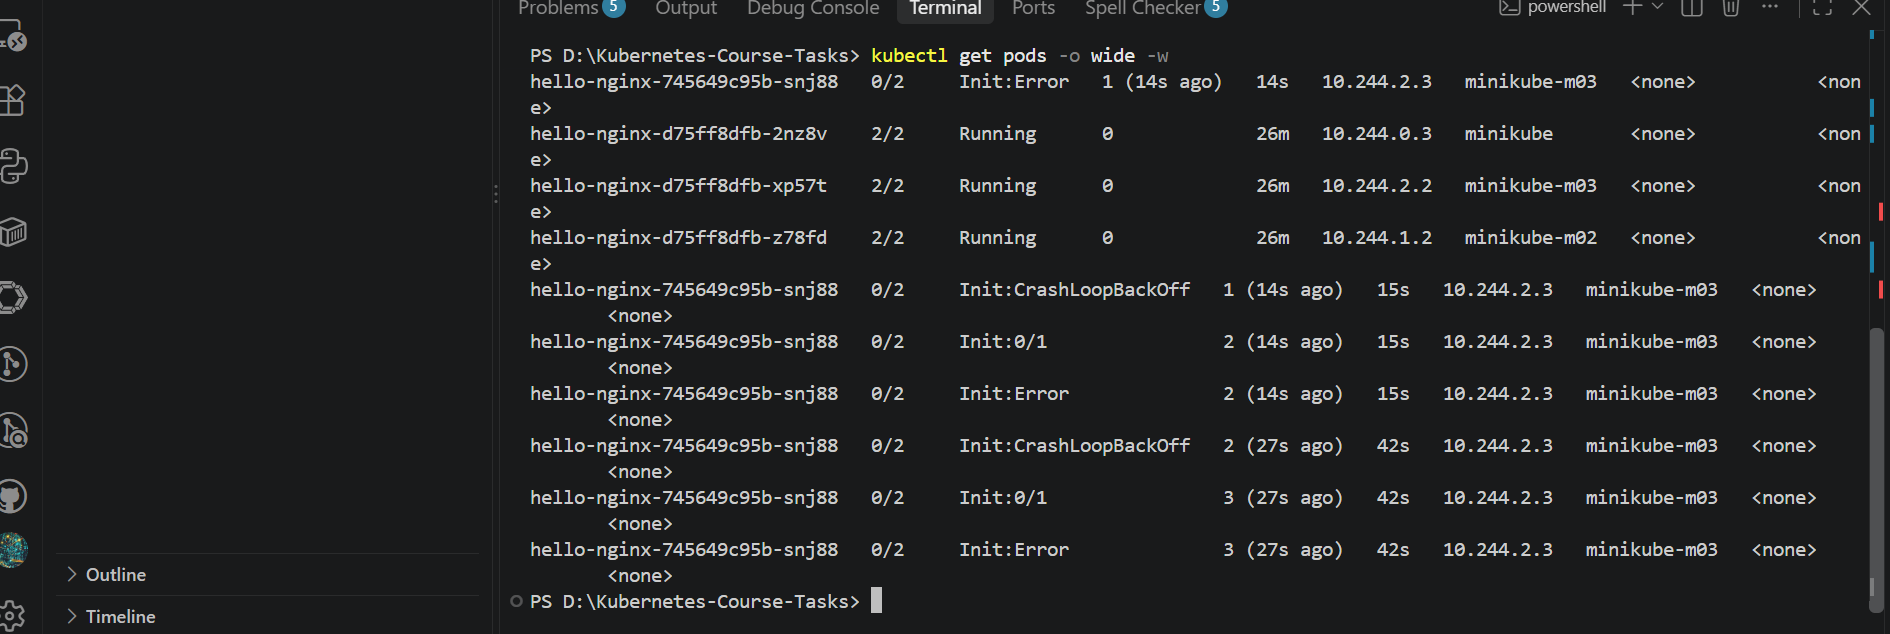
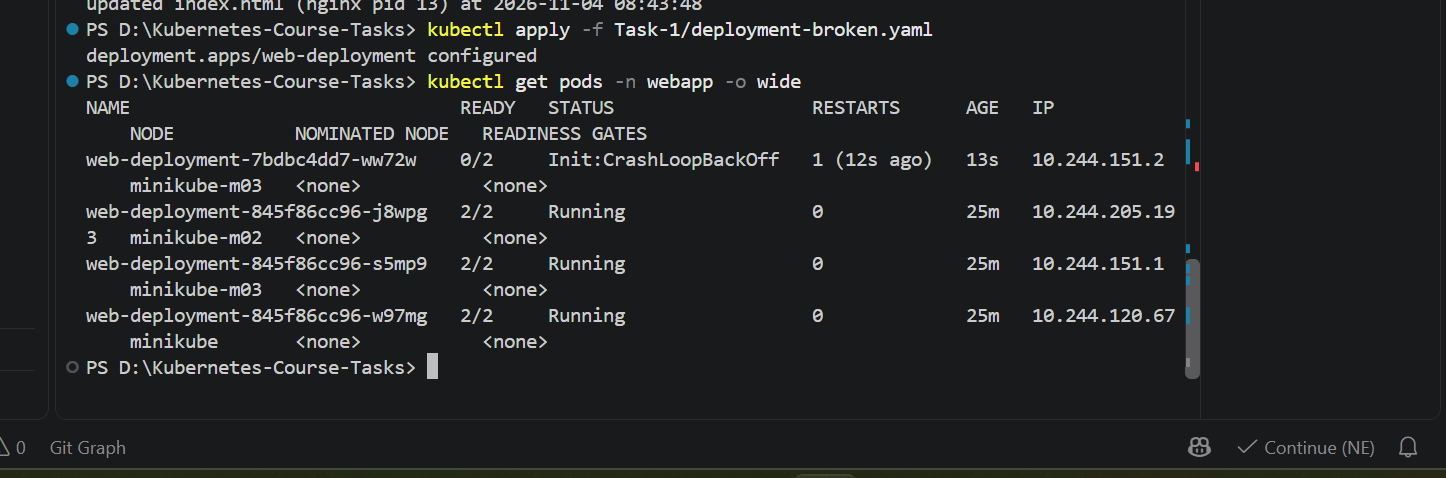
Task 1: align with task spec
- Use required names: namespace webapp, Deployment web-deployment, label app: web
- Use nginx:1.27 and <h1> page content
- Init failure command: echo 'init failed'; exit 1
- Recreate cluster with Calico (3 nodes, 2200MB each)
- Add namespace.yaml, update service.yaml selector/namespace
- Retake all screenshots and add verification checks (11-verify1/2)
- README: add Step 5 answers and task verification table

diff --git a/Task-1/README.md b/Task-1/README.md
@@ -1,9 +1,9 @@
 # Task 1: Multi-Container Pods (Init Container & Sidecar)
 
-An Nginx "Hello" page running on a **3-node Minikube cluster**. The page shows the current timestamp and refreshes it every 5 seconds:
+An Nginx "Hello" page running on a **3-node Minikube cluster** (1 control-plane + 2 workers, **Calico** CNI). The page shows the current timestamp, and a sidecar refreshes it every 5 seconds:
 
 ```text
-hello in MLOPS MENA COMMUNITY : 2026-11-03 11:49:18
+hello in MLOPS MENA COMMUNITY : 2026-11-04 11:15:05
 ```
 
 Each Pod has three containers, uses **no volumes**, and relies on `shareProcessNamespace: true` so the containers can see each other.
@@ -14,10 +14,18 @@ Each Pod has three containers, uses **no volumes**, and relies on `shareProcessN
 
 | File | Purpose |
 |---|---|
-| `deployment.yaml` | The working Deployment (3 replicas, init container + nginx + sidecar) |
-| `deployment-broken.yaml` | Same Deployment, but `init-done` runs `exit 1` on purpose |
-| `service.yaml` | NodePort Service that exposes the Pods on port 80 |
+| `namespace.yaml` | The `webapp` namespace |
+| `deployment.yaml` | The working Deployment `web-deployment` (3 replicas, init container + nginx + sidecar) |
+| `deployment-broken.yaml` | Same Deployment, but `init-done` exits with code `1` on purpose |
+| `service.yaml` | Optional NodePort Service `web-service` that exposes the Pods on port 80 |
 | `screenshots/` | Evidence for every step below |
+
+| Resource | Name |
+|---|---|
+| Namespace | `webapp` |
+| Deployment / Pod label | `web-deployment` / `app: web` |
+| Containers | `init-done`, `nginx`, `time-updater` |
+| Images | `busybox:1.36` (init + sidecar), `nginx:1.27` |
 
 ---
 
@@ -26,17 +34,17 @@ Each Pod has three containers, uses **no volumes**, and relies on `shareProcessN
 | Container | Type | What it does |
 |---|---|---|
 | `init-done` | Init container (`busybox:1.36`) | Prints `done` and exits `0`. The other containers start only after it succeeds. |
-| `nginx` | Main container (`nginx:1.27-alpine`) | Writes the first `index.html` with the current time, then serves it on port `80` |
+| `nginx` | Main container (`nginx:1.27`) | Writes the first `index.html` with the current time, then serves it on port `80` |
 | `time-updater` | Sidecar (`busybox:1.36`) | Every 5 seconds, finds the nginx master PID and rewrites the page through `/proc/<pid>/root/usr/share/nginx/html/index.html` |
 
 ### How the sidecar edits nginx's file without a volume
 
 1. `shareProcessNamespace: true` puts all containers in the Pod in **one process namespace**, so `time-updater` can see the nginx process.
-2. `pgrep -f "nginx: master"` gets the nginx PID.
+2. `pgrep -o nginx` gets the PID of the oldest nginx process (the master).
 3. `/proc/<pid>/root` points to **that process's root filesystem**. Writing to `/proc/<pid>/root/usr/share/nginx/html/index.html` changes the file nginx is serving.
 4. The `SYS_PTRACE` capability lets the sidecar access another container's `/proc/<pid>/root`.
 
-### Zero-downtime settings
+### Zero-downtime settings (extra)
 
 ```yaml
 strategy:
@@ -53,16 +61,18 @@ A `readinessProbe` on nginx means a Pod receives traffic only once it actually a
 ## 🚀 How to Run
 
 ```bash
-# 1. Start a 3-node cluster
-minikube start --nodes 3 --driver=docker
+# 1. Start a 3-node cluster with Calico (--memory is per node)
+minikube start --nodes 3 --cni=calico --cpus 2 --memory 2200
 kubectl get nodes
 
-# 2. Deploy
-kubectl apply -f Task-1/
-kubectl get pods -o wide -w
+# 2. Namespace + Deployment (+ optional Service)
+kubectl apply -f Task-1/namespace.yaml
+kubectl apply -f Task-1/deployment.yaml
+kubectl apply -f Task-1/service.yaml
+kubectl get pods -n webapp -o wide -w
 
-# 3. Open the page (on Windows, keep this terminal open)
-minikube service hello-nginx --url
+# 3. Open the page (keep this terminal open), then go to http://localhost:8080
+kubectl port-forward -n webapp deploy/web-deployment 8080:80
 ```
 
 ---
@@ -70,6 +80,8 @@ minikube service hello-nginx --url
 ## ✅ Part 1: Normal Operation
 
 ### 3-node cluster ready
+`minikube`, `minikube-m02` and `minikube-m03` are all `Ready`.
+
 ![Nodes](screenshots/01-nodes.png)
 
 ### Pods running, one per node
@@ -79,13 +91,13 @@ All 3 Pods are `Running` with `READY 2/2`. The init container doesn't count in R
 
 ### Init container output and sidecar updates
 ```bash
-kubectl logs <pod> -c init-done              # -> done
-kubectl logs <pod> -c time-updater --tail=5  # -> one update every 5 seconds
+kubectl logs deploy/web-deployment -n webapp -c init-done              # -> done
+kubectl logs deploy/web-deployment -n webapp -c time-updater --tail=5  # -> one update every 5 seconds
 ```
 ![Sidecar logs](screenshots/03-sidecar-logs.png)
 
 ### Timestamp updates in the browser
-The same page, refreshed a few seconds apart, shows a new timestamp:
+The same page (via `kubectl port-forward`), refreshed a few seconds apart, shows a new timestamp:
 
 | First load | After refresh |
 |---|---|
@@ -103,30 +115,39 @@ In `deployment-broken.yaml`, the only change is the init container command:
 # before
 command: ["sh", "-c", "echo done"]
 # after
-command: ["sh", "-c", "echo done; exit 1"]
+command: ["sh", "-c", "echo 'init failed'; exit 1"]
 ```
+
+Applied over the running Deployment (it was not deleted):
 
 ```bash
 kubectl apply -f Task-1/deployment-broken.yaml
-kubectl get pods -o wide -w
+kubectl get pods -n webapp -o wide -w
 ```
 
 ### Observed: `Init:CrashLoopBackOff`
-A new Pod (`hello-nginx-745649c95b-snj88`) is created. It cycles through `Init:0/1` → `Init:Error` → `Init:CrashLoopBackOff`, and its restart count keeps rising. Kubernetes waits longer between retries each time (exponential back-off).
+A new Pod (`web-deployment-<new-hash>-xxxxx`) is created. It cycles through `Init:0/1` → `Init:Error` → `Init:CrashLoopBackOff`, with READY `0/2` and a rising restart count. Kubernetes waits longer between retries each time (exponential back-off).
 
 The **3 original Pods remain `Running 2/2` with 0 restarts.**
 
 ![CrashLoopBackOff](screenshots/05-crashloop.png)
+
+### Answers
+
+- **Which status does the new Pod show?** `Init:Error`, then `Init:CrashLoopBackOff`, READY `0/2`.
+- **Do `nginx` and `time-updater` start?** No. Regular containers only start after every init container exits with code `0`. They stay `Waiting` with reason `PodInitializing`.
+- **Is the page still reachable, and why?** Yes. This is a rolling update. With `maxSurge: 1` and `maxUnavailable: 0`, Kubernetes adds 1 new Pod and removes an old Pod only after the new one is Ready. The new Pod never becomes Ready, so the rollout stops and the 3 old Pods keep serving. A failed rollout is a safe rollout.
 
 ---
 
 ## 🔍 Part 3: Failure Diagnosis
 
 ```bash
-kubectl describe pod hello-nginx-745649c95b-snj88
-kubectl logs hello-nginx-745649c95b-snj88 -c init-done
-kubectl get deployment hello-nginx
-kubectl get replicasets
+kubectl describe pod <new-pod> -n webapp
+kubectl logs <new-pod> -n webapp -c init-done
+kubectl get deployment web-deployment -n webapp
+kubectl get replicasets -n webapp
+kubectl rollout status deploy/web-deployment -n webapp   # waits up to 10 min (Ctrl+C to stop)
 ```
 
 ### `kubectl describe pod`: the init container
@@ -138,23 +159,23 @@ kubectl get replicasets
 | Evidence | Value | Meaning |
 |---|---|---|
 | `init-done` → State | `Terminated`, `Reason: Error`, **`Exit Code: 1`** | The init container fails on every run |
-| `init-done` → Restart Count | `5` | Kubernetes keeps retrying it |
-| `nginx` / `time-updater` → State | `Waiting`, `Reason: PodInitializing`, empty Container ID | Never created, because the init gate blocked them |
+| `init-done` → Restart Count | keeps increasing | Kubernetes keeps retrying it |
+| `nginx` / `time-updater` → State | `Waiting`, `Reason: PodInitializing` | Never started, because the init gate blocked them |
 | Conditions → `Initialized` | `False` | The Pod is stuck in the init phase |
 | Events | `Warning BackOff ... Back-off restarting failed container init-done` | Source of the `CrashLoopBackOff` status |
-| `kubectl logs -c init-done` | `done` | The command did run. The failure comes from the exit code, not from the echo. |
+| `kubectl logs -c init-done` | `init failed` | The command ran, then exited with code `1` |
 
 ### Deployment and ReplicaSets during the failure
 
 ![Deployment status](screenshots/08-deployment-status.png)
 
 ```text
-NAME          READY   UP-TO-DATE   AVAILABLE
-hello-nginx   3/3     1            3
+NAME             READY   UP-TO-DATE   AVAILABLE
+web-deployment   3/3     1            3
 
-NAME                     DESIRED   CURRENT   READY
-hello-nginx-745649c95b   1         1         0     <- new (broken) ReplicaSet
-hello-nginx-d75ff8dfb    3         3         3     <- old (working) ReplicaSet
+NAME                        DESIRED   CURRENT   READY
+web-deployment-<new-hash>   1         1         0     <- new (broken) ReplicaSet
+web-deployment-<old-hash>   3         3         3     <- old (working) ReplicaSet
 ```
 
 - `AVAILABLE 3`: all 3 old Pods still serve traffic.
@@ -170,25 +191,37 @@ hello-nginx-d75ff8dfb    3         3         3     <- old (working) ReplicaSet
 ## 🔧 Part 4: Fix and Recovery
 
 ```bash
-kubectl apply -f Task-1/deployment.yaml
-kubectl rollout status deployment/hello-nginx
-kubectl get pods -o wide
-kubectl logs hello-nginx-d75ff8dfb-2nz8v -c time-updater --tail=3
+kubectl apply -f Task-1/deployment.yaml          # or: kubectl rollout undo deploy/web-deployment -n webapp
+kubectl rollout status deploy/web-deployment -n webapp
+kubectl get pods -n webapp -o wide
+kubectl logs deploy/web-deployment -n webapp -c time-updater --tail=3
 ```
 
 ![Recovered](screenshots/10-recovered.png)
 
-### Verification checks
+**Why the old Pods were kept:** re-applying the original spec makes it match the old ReplicaSet again. Kubernetes scales the broken ReplicaSet to `0` and keeps the healthy Pods running. Nothing restarts.
 
-| Check | Result |
-|---|---|
-| Rollout | `deployment "hello-nginx" successfully rolled out` |
-| Broken Pod | Removed |
-| Original Pods | The same 3 Pods (`d75ff8dfb-*`), age **79m**, **0 restarts**. They were never interrupted. |
-| Pod spread | One Pod on each node: `minikube`, `minikube-m02`, `minikube-m03` |
-| Sidecar | Still updating every 5 seconds (`12:58:53 → 12:58:58 → 12:59:03`) |
+---
 
-**Why the old Pods were kept:** re-applying the original spec makes it match the old ReplicaSet (`d75ff8dfb`) again. Kubernetes scales the broken ReplicaSet to `0` and keeps the healthy Pods running. Nothing restarts.
+## 🔍 Verification (task checklist)
+
+| # | Check | Command | Result |
+|---|---|---|---|
+| 1 | 3 nodes | `kubectl get nodes` | `minikube`, `minikube-m02`, `minikube-m03` `Ready` |
+| 2 | Deployment ready | `kubectl get deploy web-deployment -n webapp` | READY `3/3` |
+| 3 | Pods running | `kubectl get pods -n webapp -l app=web` | 3 Pods, each `2/2 Running` |
+| 4 | Containers | `kubectl get pods -n webapp -l app=web -o jsonpath='{.items[0].spec.initContainers[*].name} {.items[0].spec.containers[*].name}'` | `init-done nginx time-updater` |
+| 5 | Init succeeded | `kubectl logs deploy/web-deployment -n webapp -c init-done` | `done` |
+| 6 | Sidecar sees nginx | `kubectl exec deploy/web-deployment -n webapp -c time-updater -- ps` | `nginx: master process` listed |
+| 7 | Time updates | `kubectl exec deploy/web-deployment -n webapp -c nginx -- cat /usr/share/nginx/html/index.html` (twice, 5 s apart) | New time each read |
+| 8 | No volumes | `kubectl get deploy web-deployment -n webapp -o jsonpath='{.spec.template.spec.volumes}'` | Empty |
+| 9 | Failing init | `kubectl get pods -n webapp -l app=web` | New Pod `Init:CrashLoopBackOff`, `0/2`; 3 old Pods `2/2 Running` |
+| 10 | Init error details | `kubectl describe pod <new-pod> -n webapp` | `init-done`: `Exit Code: 1` |
+| 11 | Fixed | `kubectl get deploy web-deployment -n webapp` | READY `3/3`, UP-TO-DATE `3` |
+
+![Verify 1](screenshots/11-verify1.png)
+
+![Verify 2](screenshots/11-verify2.png)
 
 ---
 
@@ -198,13 +231,14 @@ kubectl logs hello-nginx-d75ff8dfb-2nz8v -c time-updater --tail=3
 2. **`kubectl describe pod`** is the main diagnosis tool: exit code, restart count, container states, and events.
 3. **`maxUnavailable: 0` + a readiness probe** give zero downtime during a bad rollout, because old Pods are kept until new ones are Ready.
 4. **`shareProcessNamespace` + `/proc/<pid>/root`** let a sidecar reach another container's filesystem without a shared volume.
-5. **Recovery** is just applying the good config again (or `kubectl rollout undo deployment/hello-nginx`).
+5. **Recovery** is just applying the good config again (or `kubectl rollout undo`).
 
 ---
 
 ## 🧹 Cleanup
 
+Keep the cluster for Task 2. Remove only this task's namespace:
+
 ```bash
-kubectl delete -f Task-1/
-minikube stop
+kubectl delete namespace webapp
 ```
